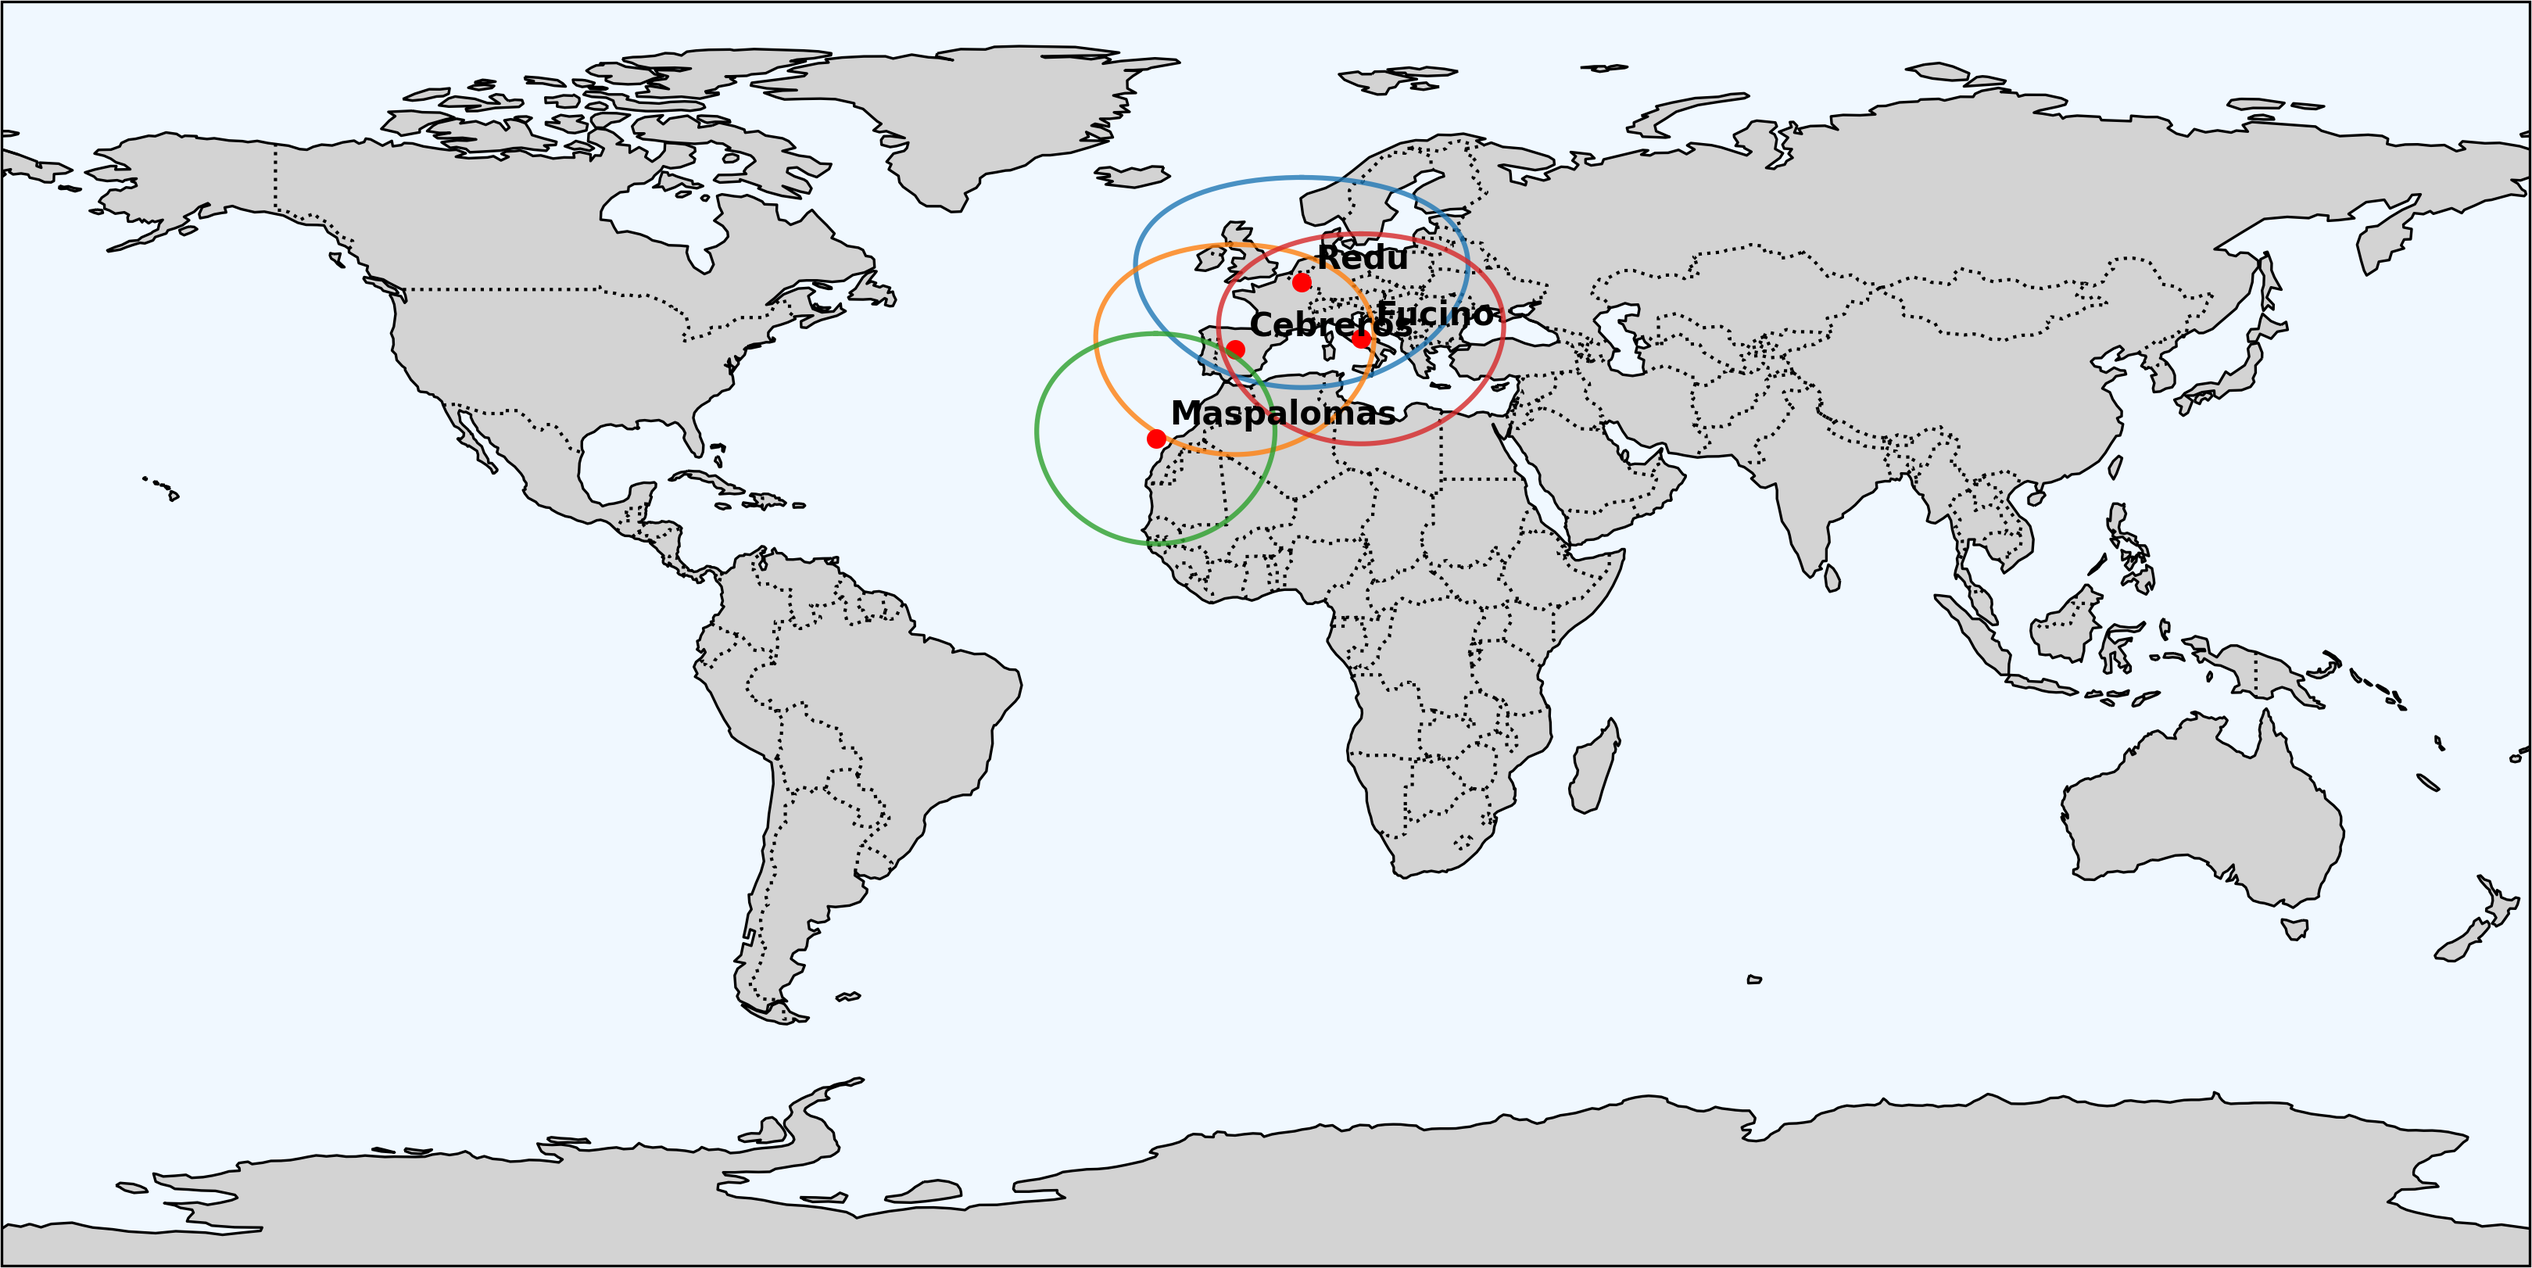
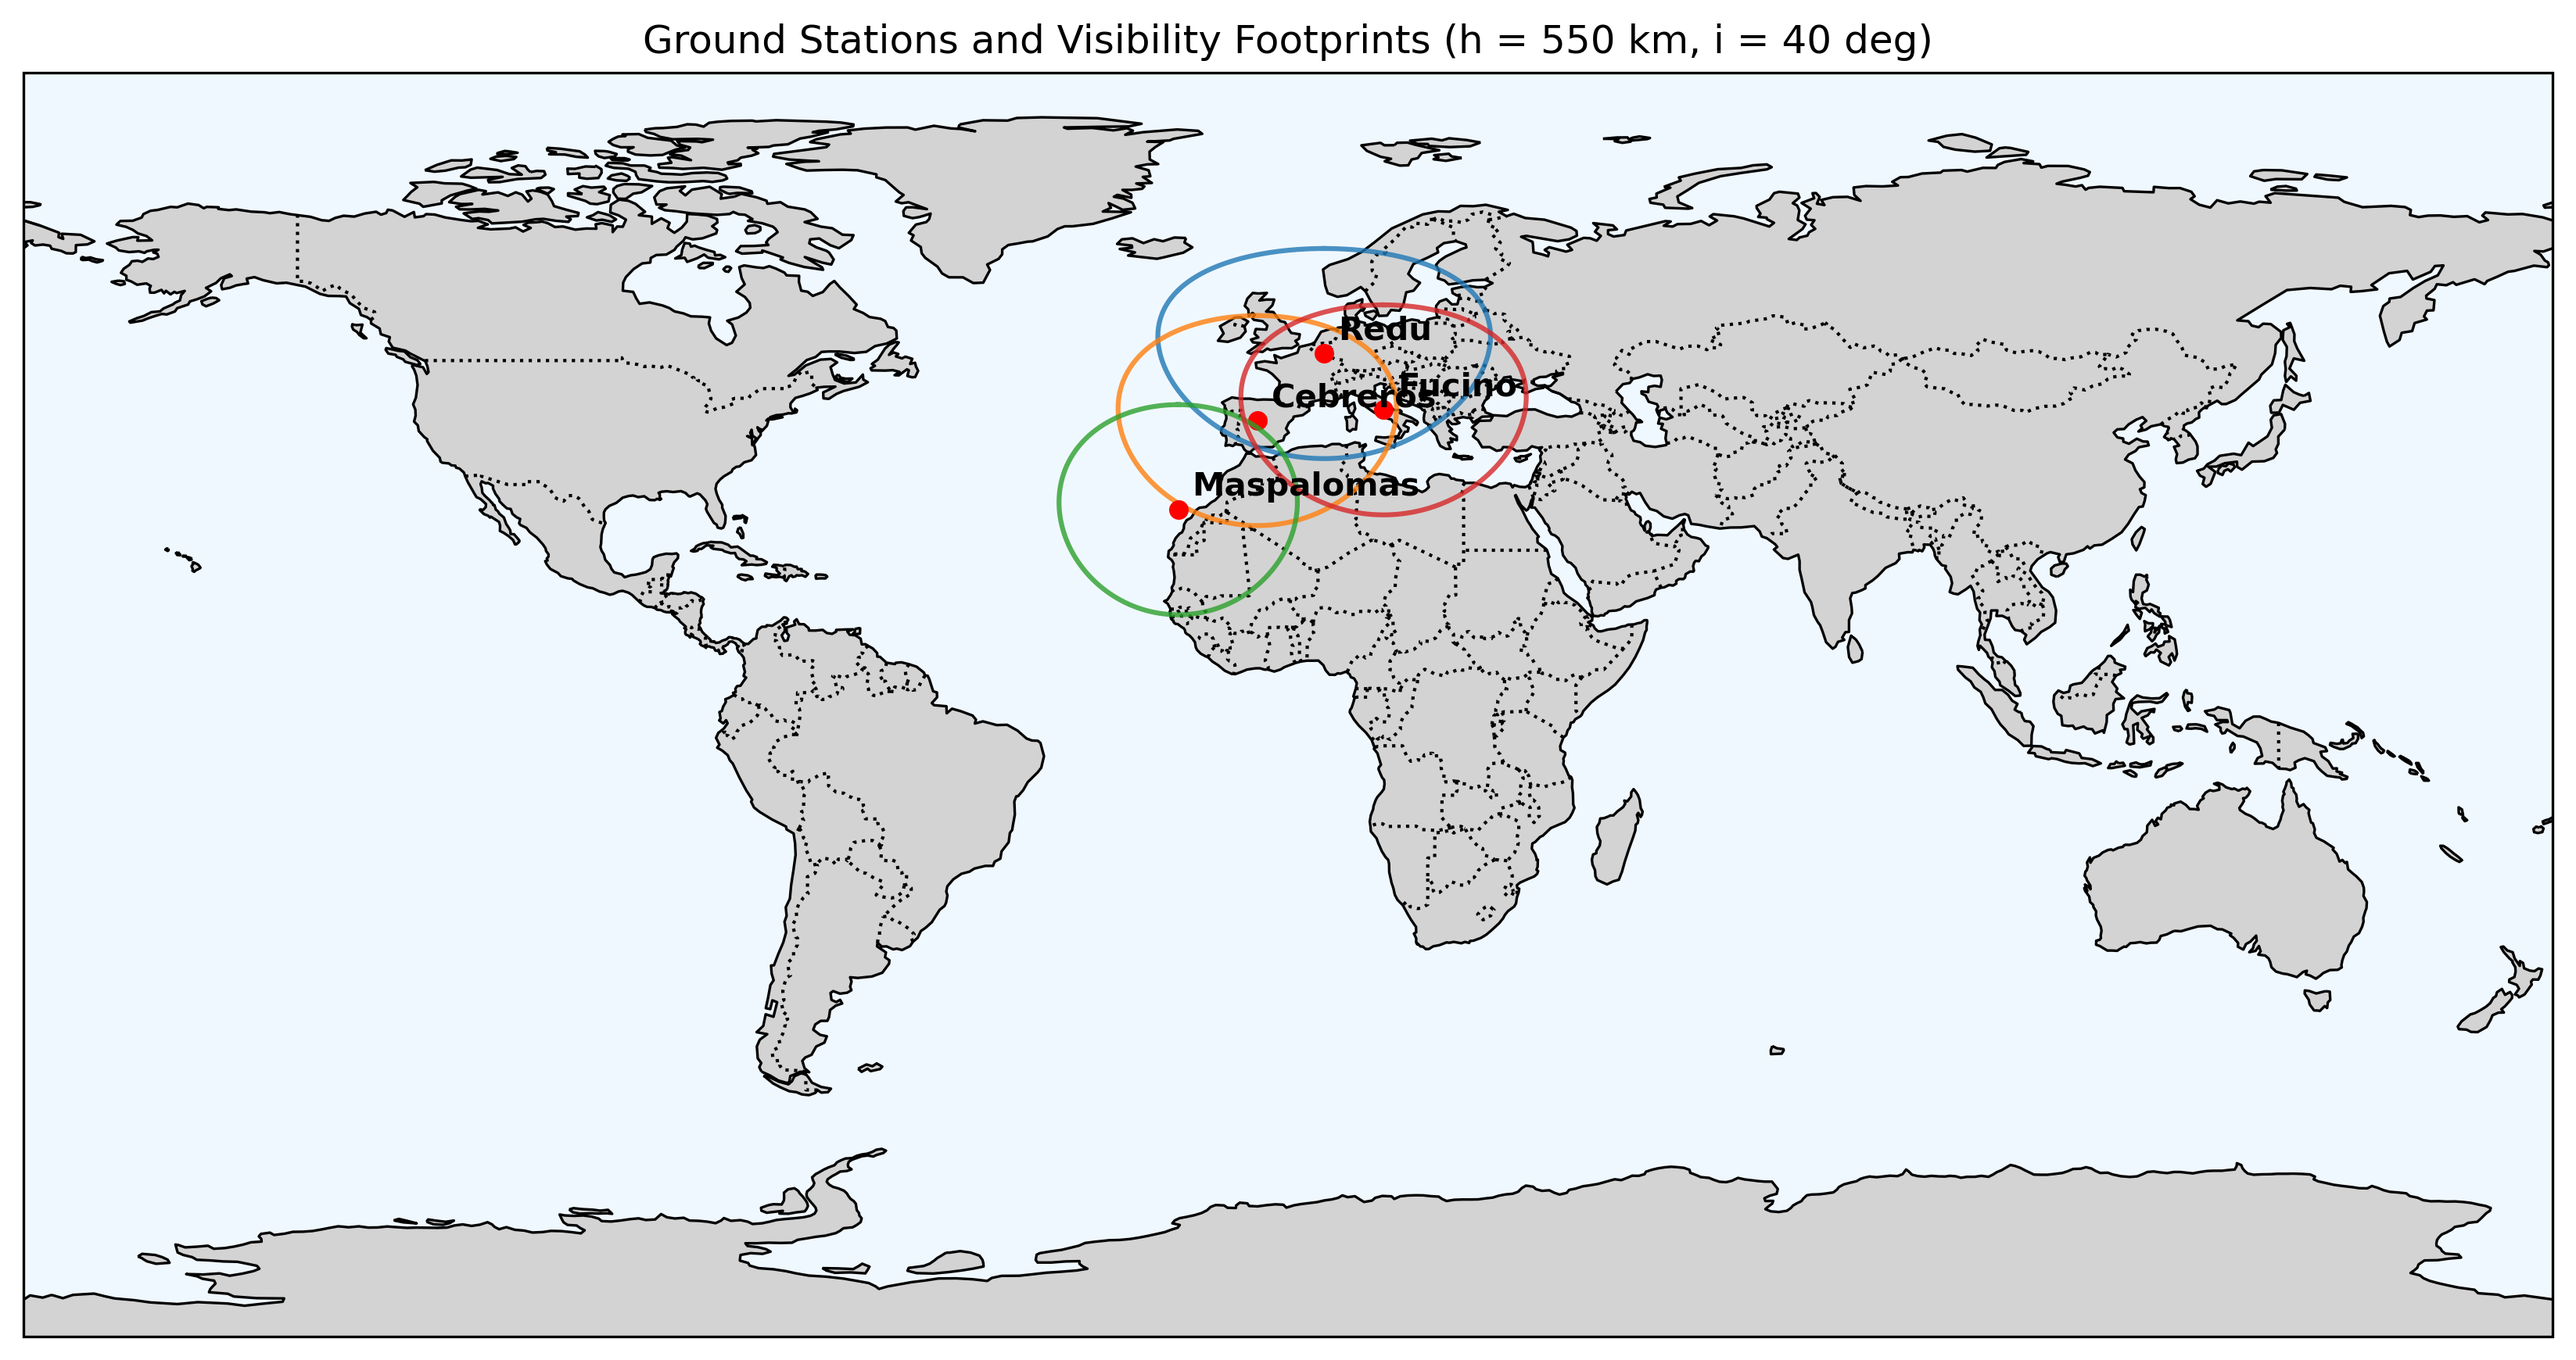
updates

Changed region(s): [[0.0, 0.0, 1.0, 1.0], [0.0, 0.0, 0.0312, 0.0617]]

diff --git a/ContactTime.py b/ContactTime.py
@@ -13,7 +13,7 @@ optical_system = OS.optical_system1
 dataVolume = optical_system['link_benchmark_specs']['dataVolume']
 altitude = optical_system['link_benchmark_specs']['altitude']
 
-### GROUND STATION NETWORKS
+### GROUND STATION NETWORKS ###
 # Format: "StationName": (Latitude [deg], Longitude [deg], Altitude [km], Minimum Elevation [deg])
 # Optical
 OpticalNetwork = {
@@ -23,19 +23,8 @@ OpticalNetwork = {
                 "Nemea":    (37.85,  22.62, 0.300, 30), 
                 "Nicosia":  (34.80,  33.40, 0.220, 30), 
                 "Porto":    (41.50,  -8.80, 0.100, 30)
-                }
-
-RFFromOptical = {
-                "Delft":    (51.99,   4.38, 0.060, 10), 
-                "Granada":  (37.00,  -3.20, 0.738, 10), 
-                "Tenerife": (28.30, -16.51, 2.400, 10), 
-                "Nemea":    (37.85,  22.62, 0.300, 10), 
-                "Nicosia":  (34.80,  33.40, 0.220, 10), 
-                "Porto":    (41.50,  -8.80, 0.100, 10)
-                }
-
-# "Weilheim":  (47.88, 11.08, 0.563, 10), 
-
+                } 
+# RF
 RFNetwork = {
                 "Redu":       (50.00,  5.15,  0.387, 10), 
                 "Cebreros":   (40.45, -4.37,  0.794, 10), 
@@ -43,13 +32,7 @@ RFNetwork = {
                 "Fucino":     (41.98,  13.60, 0.661, 10)
                 }
 
-SSONetwork = {
-                "Svalbard": (78.22, 15.63, 0, 30),
-                "Trollsat": (-72.00,  2.53, 0, 30),
-                }
-
-
-### CLASSES
+### CLASSES ###
 class ContactTimes():
     """
     Class for calculating stuff about the contact times.
@@ -362,7 +345,7 @@ def availability(P_contact: list[float]) -> float:
 # RF Network: ["Redu", "Cebreros", "Maspalomas", "Fucino"]
 # print(availability([.5069, .8767, .9288, .7260])) # RF network availability: 0.998813879981776
 
-inclination = 98
+inclination = 40
 
 opt_groundtrack = "GMATReports\DelftReport.csv"
 rf_groundtrack = "GMATReports\CebrerosReport.csv"
@@ -377,9 +360,5 @@ opticalTimes.plotMap(OpticalNetwork, 550, inclination, None, False, True, f"OptM
 rfTimes = ContactTimes(f"RF{inclination}.txt")
 #rfTimes.summary(False, True, f"RFSum{inclination}")
 #rfTimes.plot(False, True, f"RFPlot{inclination}")
-rfTimes.plotMap(RFNetwork, 550, inclination, None, False, True, f"RFMap")
+rfTimes.plotMap(RFNetwork, 550, inclination, rf_groundtrack, False, True, f"RFMap{inclination}")
 """
-
-ssoTimes = ContactTimes(f"SSO.txt")
-ssoTimes.summary(True, False, f"SSOSum")
-ssoTimes.plotMap(SSONetwork, 550, inclination, sso_groundtrack, True, False, f"SSOMap")

diff --git a/Tracking.py b/Tracking.py
@@ -3,7 +3,7 @@ File to design lens and tracking detector.
 """
 
 ### DESIGN PARAMETERS ###
-aperture = 0.2        # Effective system aperture (about half the FSM diameter) (m)
+aperture = 0.2         # Effective system aperture (about half the FSM diameter) (m)
 focal_length = 0.1     # Focal length of the lens (m)
 angular_range = 1e-3   # FSM tracking range (rad)
 
